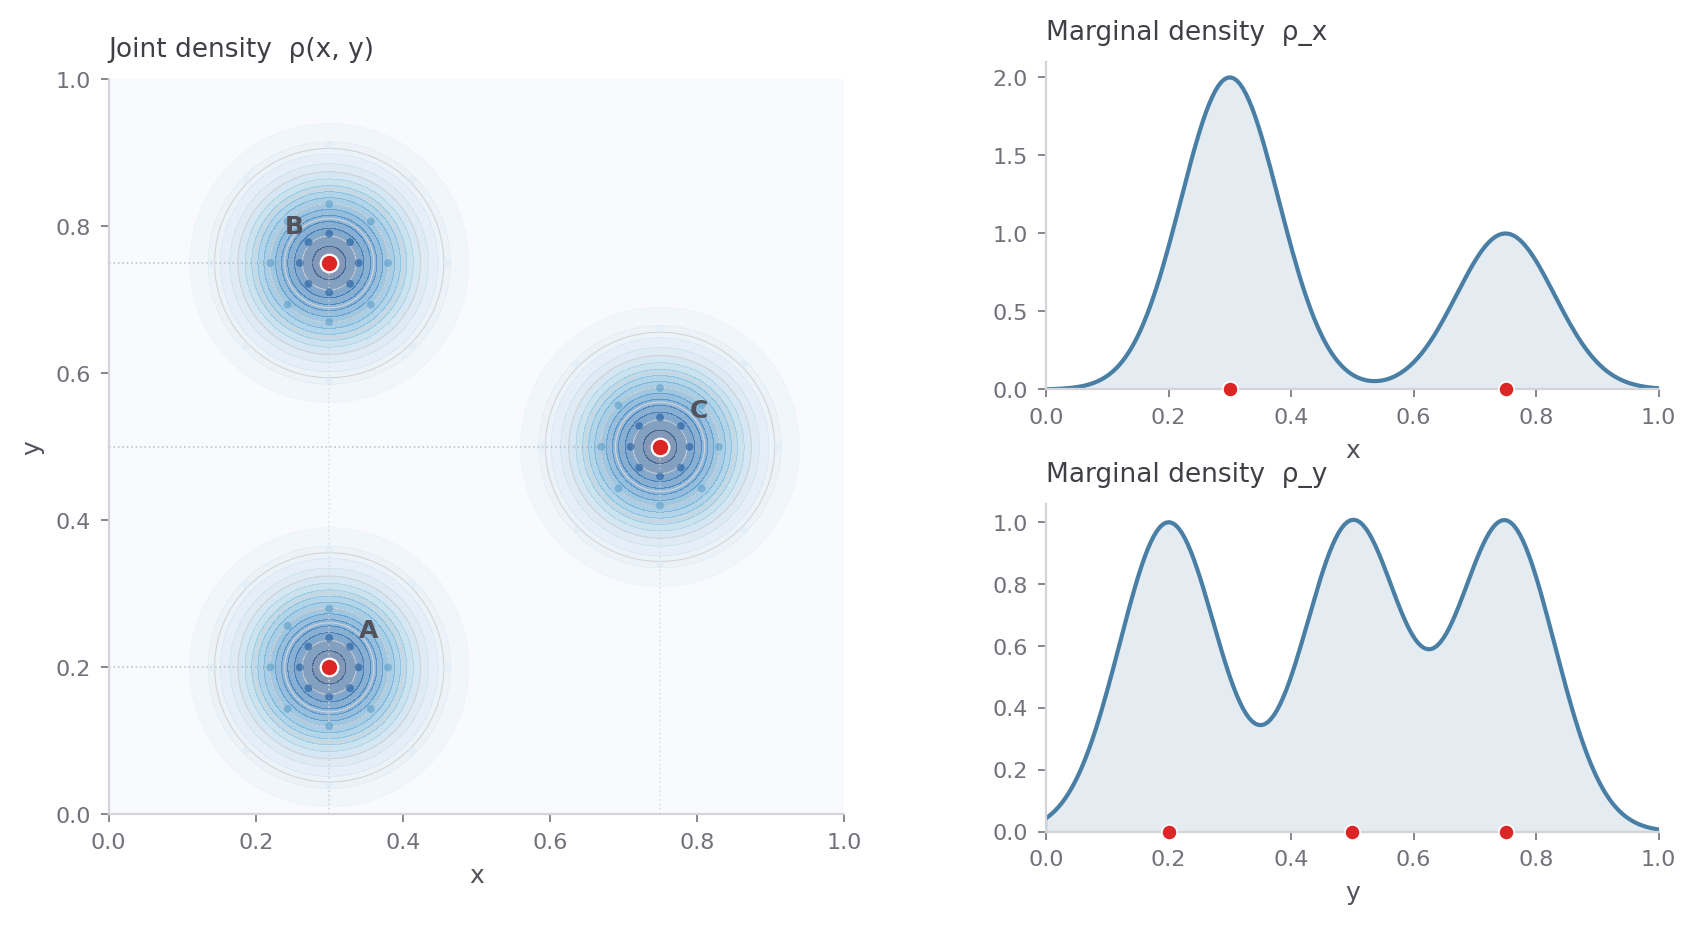
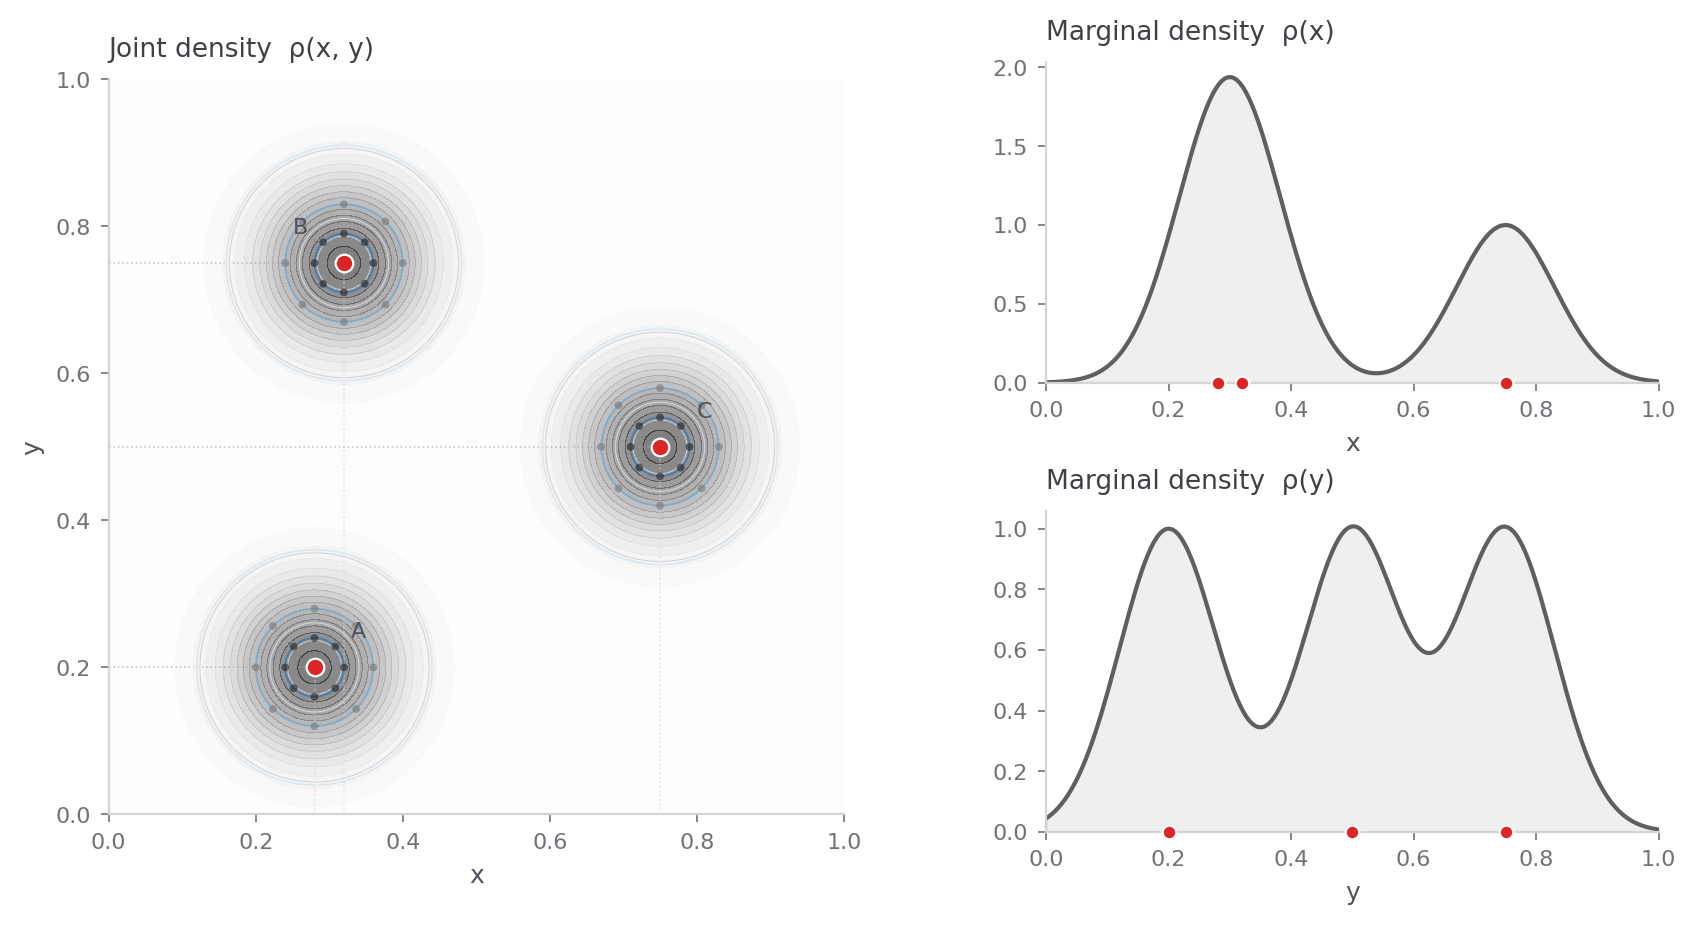
concepts: three figures — density, evidence, evidence gain
Each shows joint 2D (KernelField probes) + stacked 1D marginals.
Uses semantic style registry (Greys, Blues, YlGn). A/B share
near-identical x — marginals detect the overlap, joint doesn't.

diff --git a/concepts/marginal_joint_integration.py b/concepts/marginal_joint_integration.py
@@ -1,16 +1,15 @@
-"""Marginal-joint integration — two concept figures.
+"""Marginal-joint integration — three concept figures.
 
-Figure 1 (density): What the evidence field looks like.
-    Left:  2D joint density with KernelField probes (red centres, probe dots)
-           + subtle projection lines to axes
-    Right: Two stacked 1D marginal density plots (x on top, y on bottom)
+Figure 1 (density):     Joint density ρ + marginal densities ρ_x, ρ_y
+Figure 2 (evidence):    Joint evidence E=D/(1+D) + marginal evidence
+Figure 3 (evidence gain): Joint ΔE surface + marginal ΔE curves
 
-Figure 2 (evidence): What the optimizer sees.
-    Left:  2D evidence gain surface 1/(1+ρ)
-    Right: Two stacked 1D marginal evidence curves 1/(1+ρ_d)
+All use three kernels where A and B share near-identical x-values —
+the marginal integral detects this overlap while the joint integral doesn't.
 
-Both use three kernels where A and B share the same x-value — the
-marginal integral detects this overlap while the joint integral doesn't.
+Layout per figure:
+    Left (wide):   2D field with KernelField probes + projection lines
+    Right (stack): Two 1D marginal plots (x on top, y on bottom)
 """
 from __future__ import annotations
 
@@ -18,37 +17,41 @@ from pathlib import Path
 
 import numpy as np
 import matplotlib.pyplot as plt
-from matplotlib.cm import ScalarMappable
 from matplotlib.colors import Normalize
 
 from _style import (
-    apply_style, clean_spines, subplot_label, cmap, style_colorbar,
+    apply_style, clean_spines, subplot_label, cmap,
     add_kernel_radii_2d,
-    STEEL_500, EMERALD_500, ZINC_200, ZINC_300, ZINC_400, ZINC_500, ZINC_600, RED,
+    ZINC_300, ZINC_400, ZINC_500, ZINC_600, ZINC_700,
 )
 from _config import SIGMA
 from pred_fab.orchestration.evidence import DEFAULT_RADII, KernelFieldEstimator
+from pred_fab.plotting._style import (
+    SURFACES, MARKERS, LINES, FILL_ALPHA, FONT, RED,
+    surface as get_surface,
+)
 
 PLOTS_DIR = Path(__file__).parent / "plots"
 PLOTS_DIR.mkdir(exist_ok=True)
 
+# A and B near-identical x (offset slightly for visibility), C separate.
 CENTERS = np.array([
-    [0.30, 0.20],   # A
-    [0.30, 0.75],   # B — same x as A
-    [0.75, 0.50],   # C
+    [0.28, 0.20],
+    [0.32, 0.75],
+    [0.75, 0.50],
 ])
 LABELS = ["A", "B", "C"]
 SIGMA_VIS = 0.08
 
 
-def _density_1d(xs: np.ndarray, centers_1d: np.ndarray, sigma: float) -> np.ndarray:
+def _density_1d(xs, centers_1d, sigma):
     rho = np.zeros_like(xs)
     for c in centers_1d:
         rho += np.exp(-(xs - c) ** 2 / (2 * sigma ** 2))
     return rho
 
 
-def _density_2d(xx: np.ndarray, yy: np.ndarray, centers: np.ndarray, sigma: float) -> np.ndarray:
+def _density_2d(xx, yy, centers, sigma):
     rho = np.zeros_like(xx)
     for c in centers:
         d2 = (xx - c[0]) ** 2 + (yy - c[1]) ** 2
@@ -56,157 +59,154 @@ def _density_2d(xx: np.ndarray, yy: np.ndarray, centers: np.ndarray, sigma: floa
     return rho
 
 
-def _draw_joint_panel(ax, centers, sigma, field, xs, cm, norm, show_evidence: bool = False):
-    """Draw the 2D panel — density or evidence."""
-    label_text = "Evidence gain  1/(1+ρ)" if show_evidence else "Joint density  ρ(x, y)"
-    cmap_name = cm
+def _draw_2d_panel(ax, centers, sigma, field_2d, xs, surface_name):
+    """Draw the 2D panel with KernelField probes and projection lines."""
+    surf = get_surface(surface_name)
+    cm = cmap(surface_name)
+    if surf.bounded:
+        norm = Normalize(vmin=surf.vmin, vmax=surf.vmax)
+    else:
+        norm = Normalize(vmin=field_2d.min(), vmax=field_2d.max())
 
-    levels = 18
-    ax.contourf(xs, xs, field, levels=levels, cmap=cmap_name, norm=norm, alpha=0.5)
-    ax.contour(xs, xs, field, levels=8, colors=[ZINC_300], linewidths=0.4)
+    ax.contourf(xs, xs, field_2d, levels=18, cmap=cm, norm=norm,
+                alpha=FILL_ALPHA["contour"])
+    ax.contour(xs, xs, field_2d, levels=8, colors=[ZINC_300], linewidths=0.4)
 
-    # KernelField probes around each centre
+    # KernelField probes
     kf = KernelFieldEstimator()
     offsets, _, _ = kf._probes_weights_self(2, sigma)
-    probe_density = np.exp(-np.sum(offsets ** 2, axis=-1) / (2 * sigma ** 2))
-    probe_cm = cmap("evidence")
+    probe_d2 = np.sum(offsets ** 2, axis=-1)
+    probe_vals = np.exp(-probe_d2 / (2 * sigma ** 2))
     probe_norm = Normalize(vmin=0, vmax=1)
 
     for ci, (c, lab) in enumerate(zip(centers, LABELS)):
-        # Shell probes
+        # Shell radii
+        add_kernel_radii_2d(ax, c, sigma, DEFAULT_RADII, color_scale=True)
+        # Probes coloured by density fraction
         pts = c + offsets
         ax.scatter(pts[1:, 0], pts[1:, 1],
-                   c=probe_density[1:], cmap=probe_cm, norm=probe_norm,
-                   s=8, alpha=0.5, edgecolors="none", zorder=4)
-        # Centre
-        ax.scatter([c[0]], [c[1]], c=RED, s=40, edgecolors="white",
-                   linewidth=0.8, zorder=10)
+                   c=probe_vals[1:], cmap=cm, norm=probe_norm,
+                   s=MARKERS["probe"].size, alpha=0.6, edgecolors="none", zorder=4)
+        # Centre (red)
+        m = MARKERS["sample"]
+        ax.scatter([c[0]], [c[1]], c=m.color, s=m.size, edgecolors=m.edgecolor,
+                   linewidth=m.linewidth, zorder=10)
         # Label
-        offset_x = 0.04 if ci != 1 else -0.06
-        ax.text(c[0] + offset_x, c[1] + 0.04, lab, fontsize=9,
-                color=ZINC_600, fontweight="bold", zorder=11)
+        dx = 0.05 if ci != 1 else -0.07
+        ax.text(c[0] + dx, c[1] + 0.04, lab, fontsize=FONT["annotation"],
+                color=ZINC_600, zorder=11)
 
     # Projection lines to axes
+    proj = LINES["projection"]
     for c in centers:
-        ax.plot([c[0], c[0]], [0, c[1]], color=ZINC_300, lw=0.6,
-                linestyle=":", alpha=0.6, zorder=1)
-        ax.plot([0, c[0]], [c[1], c[1]], color=ZINC_400, lw=0.6,
-                linestyle=":", alpha=0.6, zorder=1)
+        ax.plot([c[0], c[0]], [0, c[1]],
+                color=ZINC_300, lw=proj.linewidth, linestyle=proj.linestyle,
+                alpha=proj.alpha, zorder=1)
+        ax.plot([0, c[0]], [c[1], c[1]],
+                color=ZINC_400, lw=proj.linewidth, linestyle=proj.linestyle,
+                alpha=proj.alpha, zorder=1)
 
     ax.set_xlim(0, 1)
     ax.set_ylim(0, 1)
     ax.set_aspect("equal")
-    ax.set_xlabel("x", fontsize=9, color=ZINC_600)
-    ax.set_ylabel("y", fontsize=9, color=ZINC_600)
-    subplot_label(ax, label_text)
+    ax.set_xlabel("x", fontsize=FONT["axis_label"], color=ZINC_600)
+    ax.set_ylabel("y", fontsize=FONT["axis_label"], color=ZINC_600)
     clean_spines(ax)
 
 
-def _draw_marginal_panels(ax_x, ax_y, centers, sigma, show_evidence: bool = False):
+def _draw_marginal_panels(ax_x, ax_y, centers, sigma, curve_x, curve_y, surface_name):
     """Draw the two stacked 1D marginal panels."""
     res = 200
     xs = np.linspace(0, 1, res)
-
-    rho_x = _density_1d(xs, centers[:, 0], sigma)
-    rho_y = _density_1d(xs, centers[:, 1], sigma)
-
-    if show_evidence:
-        curve_x = 1.0 / (1.0 + rho_x)
-        curve_y = 1.0 / (1.0 + rho_y)
-        fill_color = EMERALD_500
-        line_color = EMERALD_500
-        label_x = "Marginal evidence  1/(1+ρ_x)"
-        label_y = "Marginal evidence  1/(1+ρ_y)"
-    else:
-        curve_x = rho_x
-        curve_y = rho_y
-        fill_color = STEEL_500
-        line_color = STEEL_500
-        label_x = "Marginal density  ρ_x"
-        label_y = "Marginal density  ρ_y"
+    surf = get_surface(surface_name)
+    cm = cmap(surface_name)
+    line_color = cm(0.7)
+    fill_color = cm(0.5)
 
     # X marginal (top)
-    ax_x.fill_between(xs, 0, curve_x, alpha=0.15, color=fill_color)
+    ax_x.fill_between(xs, 0, curve_x, alpha=FILL_ALPHA["area"], color=fill_color)
     ax_x.plot(xs, curve_x, color=line_color, linewidth=1.5)
-    for c, lab in zip(centers, LABELS):
-        ax_x.scatter([c[0]], [0], c=RED, s=30, edgecolors="white",
-                     linewidth=0.6, zorder=10, clip_on=False)
+    for c in centers:
+        m = MARKERS["sample"]
+        ax_x.scatter([c[0]], [0], c=m.color, s=m.size * 0.6, edgecolors=m.edgecolor,
+                     linewidth=m.linewidth, zorder=10, clip_on=False)
     ax_x.set_xlim(0, 1)
     ax_x.set_ylim(0, None)
-    ax_x.set_xlabel("x", fontsize=9, color=ZINC_600)
-    subplot_label(ax_x, label_x)
+    ax_x.set_xlabel("x", fontsize=FONT["axis_label"], color=ZINC_600)
     clean_spines(ax_x)
 
     # Y marginal (bottom)
-    ax_y.fill_between(xs, 0, curve_y, alpha=0.15, color=fill_color)
+    ax_y.fill_between(xs, 0, curve_y, alpha=FILL_ALPHA["area"], color=fill_color)
     ax_y.plot(xs, curve_y, color=line_color, linewidth=1.5)
-    for c, lab in zip(centers, LABELS):
-        ax_y.scatter([c[1]], [0], c=RED, s=30, edgecolors="white",
-                     linewidth=0.6, zorder=10, clip_on=False)
+    for c in centers:
+        m = MARKERS["sample"]
+        ax_y.scatter([c[1]], [0], c=m.color, s=m.size * 0.6, edgecolors=m.edgecolor,
+                     linewidth=m.linewidth, zorder=10, clip_on=False)
     ax_y.set_xlim(0, 1)
     ax_y.set_ylim(0, None)
-    ax_y.set_xlabel("y", fontsize=9, color=ZINC_600)
-    subplot_label(ax_y, label_y)
+    ax_y.set_xlabel("y", fontsize=FONT["axis_label"], color=ZINC_600)
     clean_spines(ax_y)
 
 
-def figure_density() -> Path:
-    """Figure 1: density field — what the evidence field looks like."""
+def _make_figure(surface_name, title_2d, title_x, title_y, field_2d, curve_x, curve_y, filename):
     apply_style()
     sigma = SIGMA_VIS
     res = 200
     xs = np.linspace(0, 1, res)
-    xx, yy = np.meshgrid(xs, xs)
-    rho_2d = _density_2d(xx, yy, CENTERS, sigma)
-
-    cm = cmap("evidence")
-    norm = Normalize(vmin=0, vmax=rho_2d.max())
 
     fig = plt.figure(figsize=(10, 5))
-    gs = fig.add_gridspec(2, 2, width_ratios=[1.2, 1], hspace=0.35, wspace=0.3)
+    gs = fig.add_gridspec(2, 2, width_ratios=[1.2, 1], hspace=0.4, wspace=0.3)
     ax_joint = fig.add_subplot(gs[:, 0])
     ax_mx = fig.add_subplot(gs[0, 1])
     ax_my = fig.add_subplot(gs[1, 1])
 
-    _draw_joint_panel(ax_joint, CENTERS, sigma, rho_2d, xs, cm, norm, show_evidence=False)
-    _draw_marginal_panels(ax_mx, ax_my, CENTERS, sigma, show_evidence=False)
+    _draw_2d_panel(ax_joint, CENTERS, sigma, field_2d, xs, surface_name)
+    subplot_label(ax_joint, title_2d)
 
-    path = PLOTS_DIR / "marginal_joint_density.png"
+    _draw_marginal_panels(ax_mx, ax_my, CENTERS, sigma, curve_x, curve_y, surface_name)
+    subplot_label(ax_mx, title_x)
+    subplot_label(ax_my, title_y)
+
+    path = PLOTS_DIR / filename
     fig.savefig(path, dpi=200, bbox_inches="tight")
     plt.close(fig)
     print(f"Saved: {path}")
     return path
 
 
-def figure_evidence() -> Path:
-    """Figure 2: evidence gain — what the optimizer sees."""
-    apply_style()
+def main():
     sigma = SIGMA_VIS
     res = 200
     xs = np.linspace(0, 1, res)
     xx, yy = np.meshgrid(xs, xs)
+
     rho_2d = _density_2d(xx, yy, CENTERS, sigma)
-    evidence_2d = 1.0 / (1.0 + rho_2d)
+    rho_x = _density_1d(xs, CENTERS[:, 0], sigma)
+    rho_y = _density_1d(xs, CENTERS[:, 1], sigma)
 
-    cm = "YlGn"
-    norm = Normalize(vmin=evidence_2d.min(), vmax=1.0)
+    evidence_2d = rho_2d / (1.0 + rho_2d)
+    evidence_x = rho_x / (1.0 + rho_x)
+    evidence_y = rho_y / (1.0 + rho_y)
 
-    fig = plt.figure(figsize=(10, 5))
-    gs = fig.add_gridspec(2, 2, width_ratios=[1.2, 1], hspace=0.35, wspace=0.3)
-    ax_joint = fig.add_subplot(gs[:, 0])
-    ax_mx = fig.add_subplot(gs[0, 1])
-    ax_my = fig.add_subplot(gs[1, 1])
+    gain_2d = 1.0 / (1.0 + rho_2d)
+    gain_x = 1.0 / (1.0 + rho_x)
+    gain_y = 1.0 / (1.0 + rho_y)
 
-    _draw_joint_panel(ax_joint, CENTERS, sigma, evidence_2d, xs, cm, norm, show_evidence=True)
-    _draw_marginal_panels(ax_mx, ax_my, CENTERS, sigma, show_evidence=True)
+    _make_figure("density",
+                 "Joint density  ρ(x, y)", "Marginal density  ρ(x)", "Marginal density  ρ(y)",
+                 rho_2d, rho_x, rho_y,
+                 "marginal_joint_density.png")
 
-    path = PLOTS_DIR / "marginal_joint_evidence.png"
-    fig.savefig(path, dpi=200, bbox_inches="tight")
-    plt.close(fig)
-    print(f"Saved: {path}")
-    return path
+    _make_figure("evidence",
+                 "Joint evidence  E(x, y)", "Marginal evidence  E(x)", "Marginal evidence  E(y)",
+                 evidence_2d, evidence_x, evidence_y,
+                 "marginal_joint_evidence.png")
+
+    _make_figure("evidence_gain",
+                 "Joint evidence gain  1/(1+ρ)", "Marginal evidence gain  1/(1+ρ_x)", "Marginal evidence gain  1/(1+ρ_y)",
+                 gain_2d, gain_x, gain_y,
+                 "marginal_joint_evidence_gain.png")
 
 
 if __name__ == "__main__":
-    figure_density()
-    figure_evidence()
+    main()